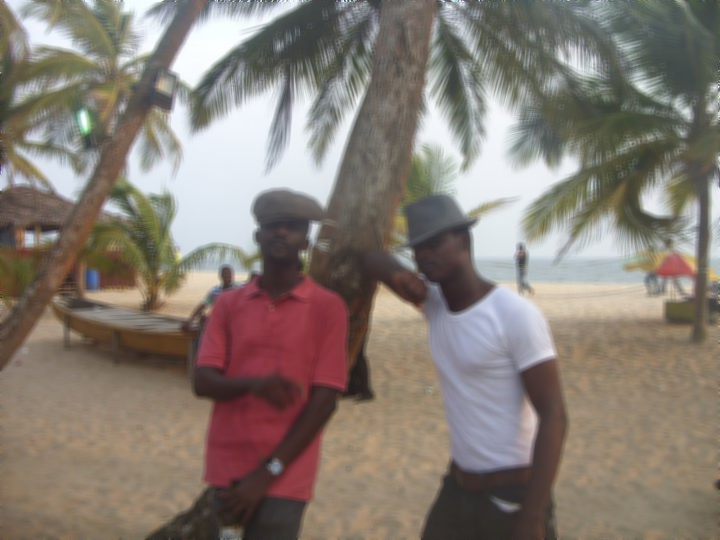
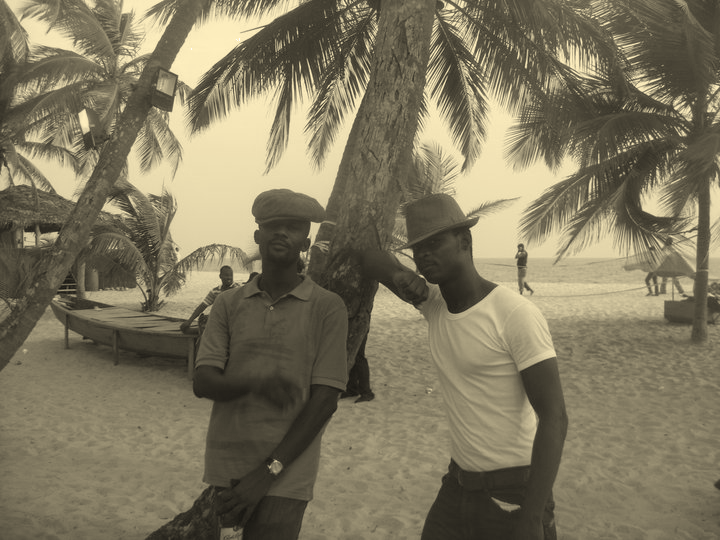
add effects to image

diff --git a/photoedit/photoapp/templates/photoapp/photoapp.html b/photoedit/photoapp/templates/photoapp/photoapp.html
@@ -21,7 +21,7 @@
                 {% for photo in photos %}
                     <a class="hvr-grow-shadow editpix" data-title="{{ photo.id }}" data-image-id="{{ photo.image.path }}">
                     <div class="ui small image">
-                        <img src = "{{ photo.image.url }}">
+                        <img src = "{{ photo.image.url }}" class="sideimg">
                     <p>{{ photo.title }}</p>
                     </div>
                     </a>
@@ -44,79 +44,61 @@
 
                         <div class="ui small image effects">
                         <a href="#" class="setup" data-effect="brightness">
-                        <img src = "#"></a>
+                        <img src = "#" class="set"></a>
                         <p>{{ photo.title }}</p>
                         </div>
 
                         <div class="ui small image effects">
-                        <a href="#" class="setup" data-effect="sharp">
-                        <img src = "#"></a>
+                        <a href="#" class="setup" data-effect="sharpness">
+                        <img src = "#" class="set"></a>
                         <p>{{ photo.title }}</p>
                         </div>
 
                         <div class="ui small image effects">
                         <a href="#" class="setup" data-effect="grayscale">
-                        <img src = "#"></a>
+                        <img src = "#" class="set"></a>
                         <p>{{ photo.title }}</p>
                         </div>
 
                         <div class="ui small image effects">
                         <a href="#" class="setup" data-effect="blur">
-                        <img src = "#"></a>
+                        <img src = "#" class="set"></a>
                         <p>{{ photo.title }}</p>
                         </div>
 
                         <div class="ui small image effects">
                         <a href="#" class="setup" data-effect="contour">
-                        <img src = "#"></a>
+                        <img src = "#" class="set"></a>
                         <p>{{ photo.title }}</p>
                         </div>
 
                         <div class="ui small image effects">
-                        <a href="#" class="setup" data-effect="hue">
-                        <img src = "#"></a>
+                        <a href="#" class="setup" data-effect="serpia">
+                        <img src = "#" class="set"></a>
                         <p>{{ photo.title }}</p>
                         </div>
 
                         <div class="ui small image effects">
-                        <a href="#" class="setup" data-effect="effect4">
-                        <img src = "#"></a>
+                        <a href="#" class="setup" data-effect="contrast">
+                        <img src = "#" class="set"></a>
                         <p>{{ photo.title }}</p>
                         </div>
 
                         <div class="ui small image effects">
-                        <a href="#" class="setup" data-effect="effect5">
-                        <img src = "#"></a>
+                        <a href="#" class="setup" data-effect="emboss">
+                        <img src = "#" class="set"></a>
                         <p>{{ photo.title }}</p>
                         </div>
 
                         <div class="ui small image effects">
-                        <a href="#" class="setup" data-effect="effect6">
-                        <img src = "#"></a>
+                        <a href="#" class="setup" data-effect="enhance">
+                        <img src = "#" class="set"></a>
                         <p>{{ photo.title }}</p>
                         </div>
 
                         <div class="ui small image effects">
-                        <a href="#" class="setup" data-effect="effect7">
-                        <img src = "#"></a>
-                        <p>{{ photo.title }}</p>
-                        </div>
-
-                        <div class="ui small image effects">
-                        <a href="#" class="setup" data-effect="effect8">
-                        <img src = "#"></a>
-                        <p>{{ photo.title }}</p>
-                        </div>
-
-                        <div class="ui small image effects">
-                        <a href="#" class="setup" data-effect="effect9">
-                        <img src = "#"></a>
-                        <p>{{ photo.title }}</p>
-                        </div>
-
-                        <div class="ui small image effects">
-                        <a href="#" class="setup" data-effect="effect10">
-                        <img src = "#"></a>
+                        <a href="#" class="setup" data-effect="smooth">
+                        <img src = "#" class="set"></a>
                         <p>{{ photo.title }}</p>
                         </div>
 

diff --git a/photoedit/static/js/main.js b/photoedit/static/js/main.js
@@ -74,19 +74,6 @@ $(document).ready(function(){
         fb_id: "1105396756159660"
     })
 
-    //display modal with picture clicked
-    // $('#editpicture-modal').on('show.bs.modal', function (event) {
-    //     var button = $(event.relatedTarget) // Button that triggered the modal
-    //     var imageId = button.data('imageId')
-    //     var imagePublicId = button.data('title')
-    //     var imgdiv = $(this).find('img')
-    //     var href = $(this).find('a')
-    //     var getroute = "/photoapp/edit/" + imagePublicId + "/default"
-
-    //     imgdiv.attr( "src", imageId );
-    //     href.attr( "href", getroute );
-    // })
-
     //display picture on central div
     $(".editpix").on('click', function(e){
         e.preventDefault();
@@ -129,16 +116,7 @@ $(document).ready(function(){
             error: function(error) {
                     console.log(error.responseText)
                 },
-                complete: function(data){
-                    //console.log(data);
-                    //$("#frameid").load(data.responseText);
-                }
-
         });
-        // $("#frameid").load("/photoapp/addeffects/",{'image': image, 'effect': imgeffect }, function(x,y,z){
-        //     console.log(z.responseText);
-        // });
-
     });
 
 
@@ -148,15 +126,6 @@ $(document).ready(function(){
         label = $(this).val().split('\\');
         $(this).closest('span').after('<p>' + label[label.length -1] +' </p>')
     });
-
-    //apply effects to image
-     $('.object').click(function (e) {
-        e.preventDefault();
-        console.log("This is clicked")
-        var url = $(this).data("effectUrl");
-
-        $("#largeImage").load(url + " #largeImage")
-     });
 
      // save image to user system
      $('.save').click(function (){

diff --git a/photoedit/static/css/index.css b/photoedit/static/css/index.css
@@ -75,8 +75,12 @@ body {
   padding: 30px;
   background-color: lightgray;
   border: solid ;
-  /*height: 600px;*/
-  /*width: 600px;*/
+  height: 466.5px;
+  width: 600px;
+  display: flex;
+  align-content: center;
+  justify-content: center;
+}
 }
 
 .sidebar {
@@ -225,13 +229,25 @@ body {
 }
 
 .container-inner {
-  width: 2000px;
+  width: 1600px;
 }
 .pixframe {
   height: 600px;
   width: 600px;
 }
 
-/*.setup {
-  display: hidden;
-}*/
+.set {
+  height: 128.5px;
+  width: 150px;
+  border-radius: 18px;
+  display: flex;
+  align-content: center;
+  justify-content: center;
+}
+
+.sideimg{
+  height: 131px;
+  border-radius: 15px;
+  width:112.5;
+
+}

diff --git a/photoedit/photoapp/effects.py b/photoedit/photoapp/effects.py
@@ -8,6 +8,14 @@ from django.http import HttpResponse
 from photoapp.views import LoginRequiredMixin
 
 
+def make_linear_ramp(white):
+    ramp = []
+    r, g, b = white
+    for i in range(255):
+        ramp.extend((r * i / 255, g * i / 255, b * i / 255))
+    return ramp
+
+
 class PillowImageView(TemplateView, LoginRequiredMixin):
 
     def get(self, request, *args, **kwargs):
@@ -18,25 +26,21 @@ class PillowImageView(TemplateView, LoginRequiredMixin):
             pilimage = str(request.GET.get('image'))
 
             img = Image.open(pilimage)
-            enh = ImageEnhance.Contrast(img)
-            out = enh.enhance(2.3)
+            enh = ImageEnhance.Brightness(img)
+            out = enh.enhance(1.3)
             filepath, ext = os.path.splitext(pilimage)
 
             edit_path = filepath + 'edited' + ext
-            # if os.path.isdir(edit_path):
-            #     os.rmdir(edit_path)
             out.save(edit_path, 'png', quality=100)
 
-        if effect == 'sharp':
+        if effect == 'sharpness':
 
             img = Image.open(pilimage)
-            enh = ImageEnhance.Contrast(img)
-            out = enh.enhance(1.5)
+            enh = ImageEnhance.Sharpness(img)
+            out = enh.enhance(2.0)
             filepath, ext = os.path.splitext(pilimage)
 
             edit_path = filepath + 'edited' + ext
-            # if os.path.isdir(edit_path):
-            #     os.rmdir(edit_path)
             out.save(edit_path, 'png', quality=100)
 
         if effect == 'grayscale':
@@ -45,12 +49,33 @@ class PillowImageView(TemplateView, LoginRequiredMixin):
 
             filepath, ext = os.path.splitext(pilimage)
             edit_path = filepath + 'edited' + ext
+            img.save(edit_path, 'png', quality=100)
 
-            # if os.path.isdir(edit_path):
-            #     os.rmdir(edit_path)
+        if effect == 'serpia':
+
+            serpia = make_linear_ramp((255, 240, 192))
+            img = Image.open(pilimage).convert('L')
+
+            img.putpalette(serpia)
+
+            filepath, ext = os.path.splitext(pilimage)
+            edit_path = filepath + 'edited' + ext
 
             img.save(edit_path, 'png', quality=100)
 
+        if effect == 'contrast':
+
+            img = Image.open(pilimage)
+
+            enh = ImageEnhance.Contrast(img)
+            out = enh.enhance(2.0)
+
+            filepath, ext = os.path.splitext(pilimage)
+            edit_path = filepath + 'edited' + ext
+
+            out.save(edit_path, 'png', quality=100)
+
+        # Filters here
         if effect == 'blur':
 
             img = Image.open(pilimage)
@@ -58,10 +83,6 @@ class PillowImageView(TemplateView, LoginRequiredMixin):
 
             filepath, ext = os.path.splitext(pilimage)
             edit_path = filepath + 'edited' + ext
-
-            if os.path.isdir(edit_path):
-                os.rmdir(edit_path)
-
             img.save(edit_path, 'png', quality=100)
 
         if effect == 'contour':
@@ -72,26 +93,37 @@ class PillowImageView(TemplateView, LoginRequiredMixin):
             filepath, ext = os.path.splitext(pilimage)
             edit_path = filepath + 'edited' + ext
 
-            # if os.path.isdir(edit_path):
-            #     os.rmdir(edit_path)
-
             img.save(edit_path, 'png', quality=100)
 
-        if effect == 'hue':
+        if effect == 'emboss':
 
-            img = Image.open(pilimage).convert('HSV')
-
-            enh = ImageEnhance.Contrast(img)
-            out = enh.enhance(-1.5)
+            img = Image.open(pilimage)
+            img = img.filter(ImageFilter.EMBOSS)
 
             filepath, ext = os.path.splitext(pilimage)
             edit_path = filepath + 'edited' + ext
 
-            # if os.path.isdir(edit_path):
-            #     os.rmdir(edit_path)
+            img.save(edit_path, 'png', quality=100)
 
-            out.save(edit_path, 'png', quality=100)
+        if effect == 'enhance':
+
+            img = Image.open(pilimage)
+            img = img.filter(ImageFilter.EDGE_ENHANCE)
+
+            filepath, ext = os.path.splitext(pilimage)
+            edit_path = filepath + 'edited' + ext
+
+            img.save(edit_path, 'png', quality=100)
+
+        if effect == 'smooth':
+
+            img = Image.open(pilimage)
+            img = img.filter(ImageFilter.SMOOTH_MORE)
+
+            filepath, ext = os.path.splitext(pilimage)
+            edit_path = filepath + 'edited' + ext
+
+            img.save(edit_path, 'png', quality=100)
 
         return HttpResponse(os.path.relpath(edit_path, settings.BASE_DIR),
                             content_type="text/plain")
-

diff --git a/photoedit/photoapp/views.py b/photoedit/photoapp/views.py
@@ -11,7 +11,6 @@ from django.utils.decorators import method_decorator
 from django.http import Http404
 
 from photoapp.models import FacebookUser, Photo
-from context_processors import Image_Effects
 
 
 class LoginRequiredMixin(object):
@@ -126,12 +125,9 @@ class EditPhotoView(TemplateView, LoginRequiredMixin):
         if not photo:
             raise Http404
 
-        effects = self.kwargs.get('effects')
         context['facebook'] = FacebookUser.objects.get(
             contrib_user_id=request.user.id)
-        context['Image_Effects'] = Image_Effects
         context['photo'] = Photo.objects.get(id=photoid)
-        context['effects'] = Image_Effects[effects]
         return self.render_to_response(context)
 
 
